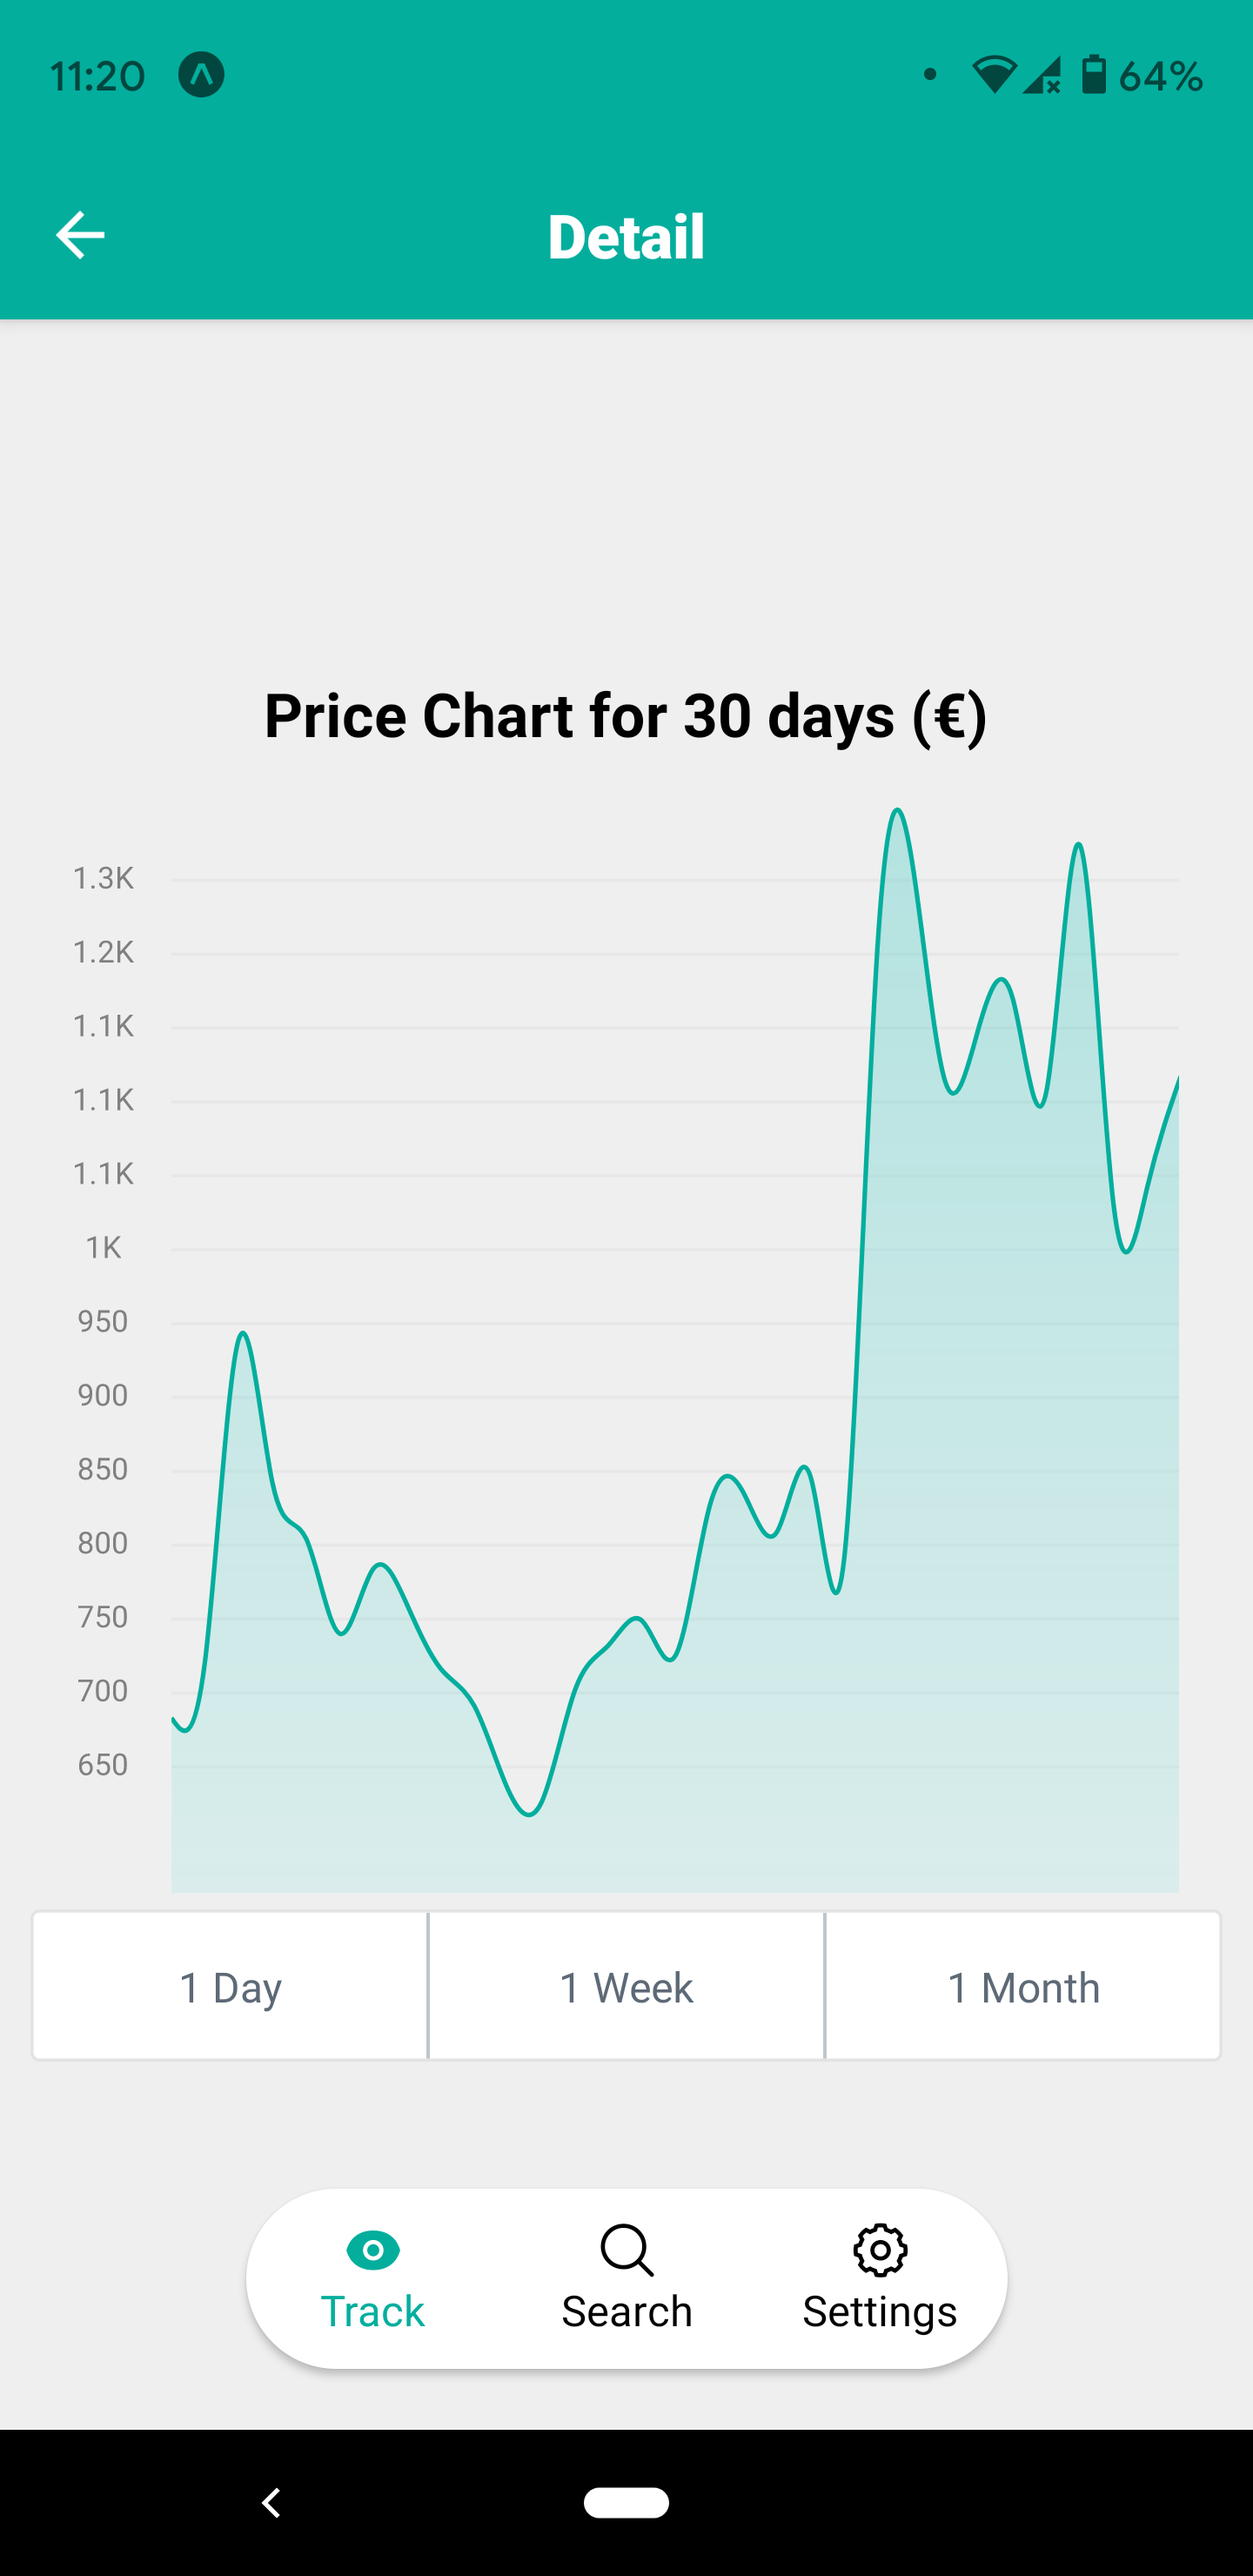
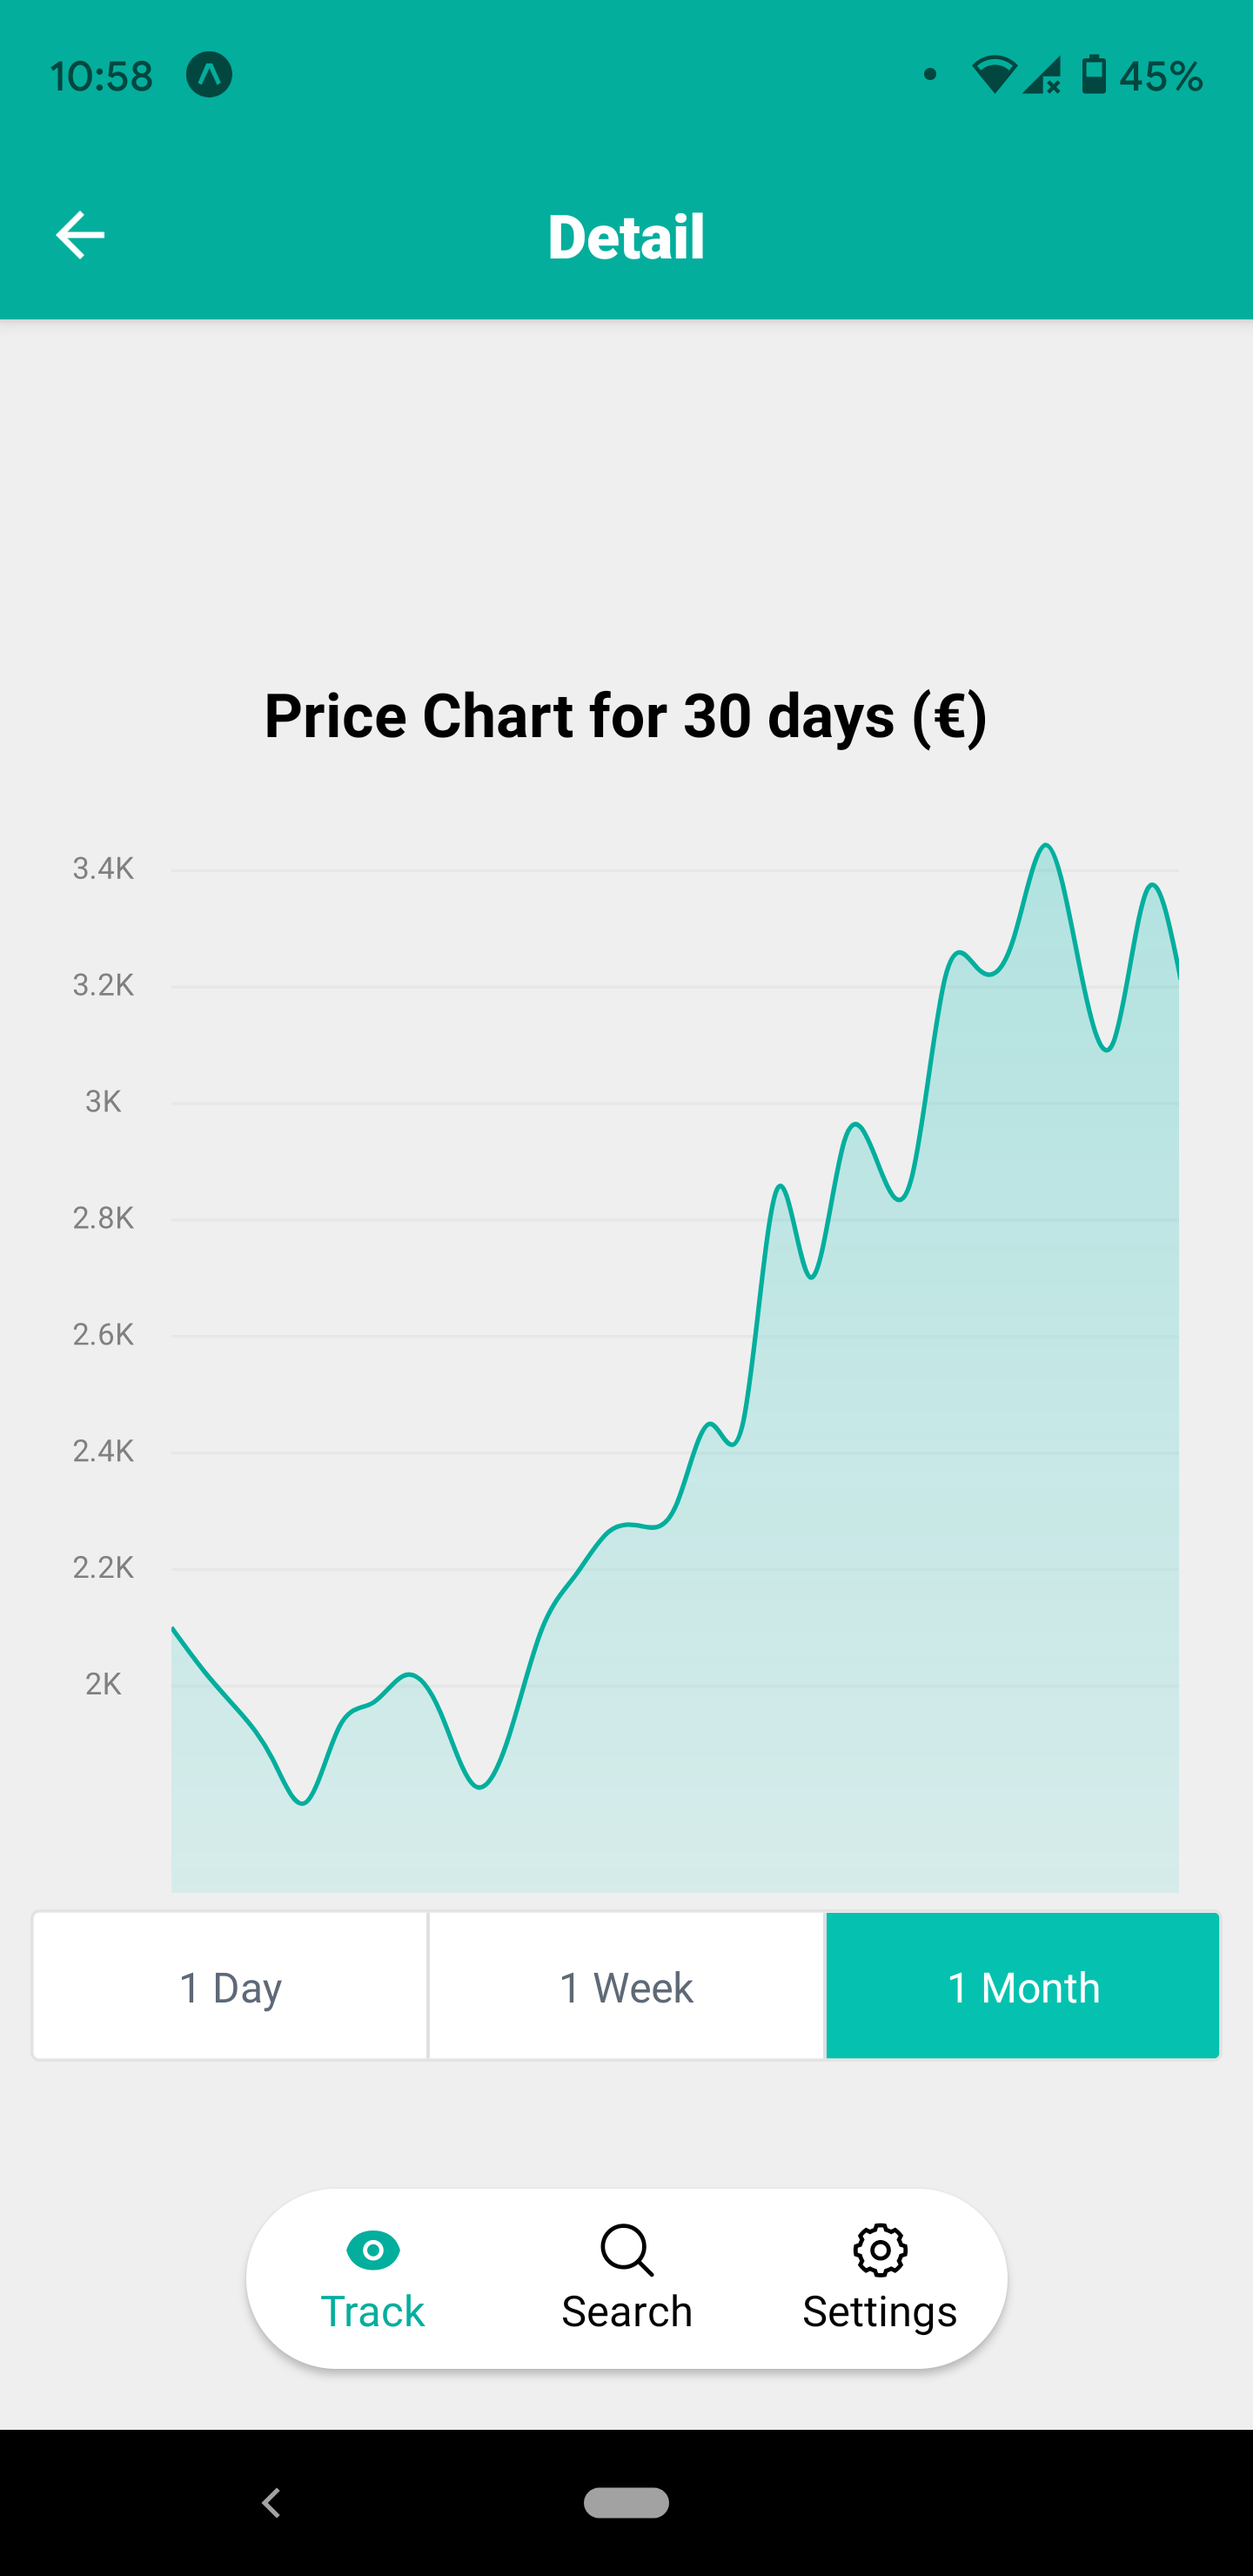
Implement ButtonGroup functionality

diff --git a/app/components/CryptoDetail.js b/app/components/CryptoDetail.js
@@ -5,13 +5,37 @@ import { ButtonGroup } from 'react-native-elements';
 import Area from './Area';
 
 const CryptoDetail = ({ route }) => {
+  const [selected, setSelected] = useState(2);
   const buttons = ['1 Day', '1 Week', '1 Month'];
   const { itemId } = route.params;
+
+  const period = (selectedIndex) => {
+    switch (selectedIndex) {
+      case 0:
+        return `1 day`;
+      case 1:
+        return `7 days`;
+      case 2:
+        return `30 days`;
+      default:
+        return `30 days`;
+    }
+  };
+
   return (
     <View style={styles.container}>
-      <Text style={styles.text}>Price Chart for 30 days (&euro;)</Text>
-      <Area coinId={itemId} days={30} />
-      <ButtonGroup buttons={buttons} containerStyle={{ height: 50 }} />
+      <Text style={styles.text}>
+        {`Price Chart for ${period(selected)}`} (&euro;)
+      </Text>
+      <Area coinId={itemId} selectedIndex={selected} />
+      <ButtonGroup
+        buttons={buttons}
+        onPress={setSelected}
+        selectedIndex={selected}
+        selectedButtonStyle={{ backgroundColor: '#04c2af' }}
+        containerStyle={{ height: 50 }}
+        innerBorderStyle={{ width: 1, color: '#e0e0e0' }}
+      />
     </View>
   );
 };

diff --git a/app/components/Area.js b/app/components/Area.js
@@ -16,8 +16,21 @@ import useRequest from './Hooks/UseFetch';
 
 const { height, width } = Dimensions.get('window');
 
-const Area = ({ coinId, days }) => {
-  const urlParams = `vs_currency=eur&days=${days}&interval=daily`;
+const Area = ({ coinId, selectedIndex }) => {
+  const handleUrlParams = (selectedIndex) => {
+    switch (selectedIndex) {
+      case 0:
+        return `vs_currency=eur&days=1&interval=hourly`;
+      case 1:
+        return `vs_currency=eur&days=7&interval=daily`;
+      case 2:
+        return `vs_currency=eur&days=30&interval=daily`;
+      default:
+        return `vs_currency=eur&days=30&interval=daily`;
+    }
+  };
+
+  const urlParams = handleUrlParams(selectedIndex);
   const baseUrl = `${COINGECKO_URL}/api/v3/coins/${coinId}/market_chart?${urlParams}`;
 
   const { data, loading, error } = useRequest(baseUrl);
@@ -100,6 +113,7 @@ const Area = ({ coinId, days }) => {
 Area.propTypes = {
   coinId: PropTypes.string,
   days: PropTypes.number,
+  selectedIndex: PropTypes.oneOf([0, 1, 2]),
 };
 
 export default Area;
